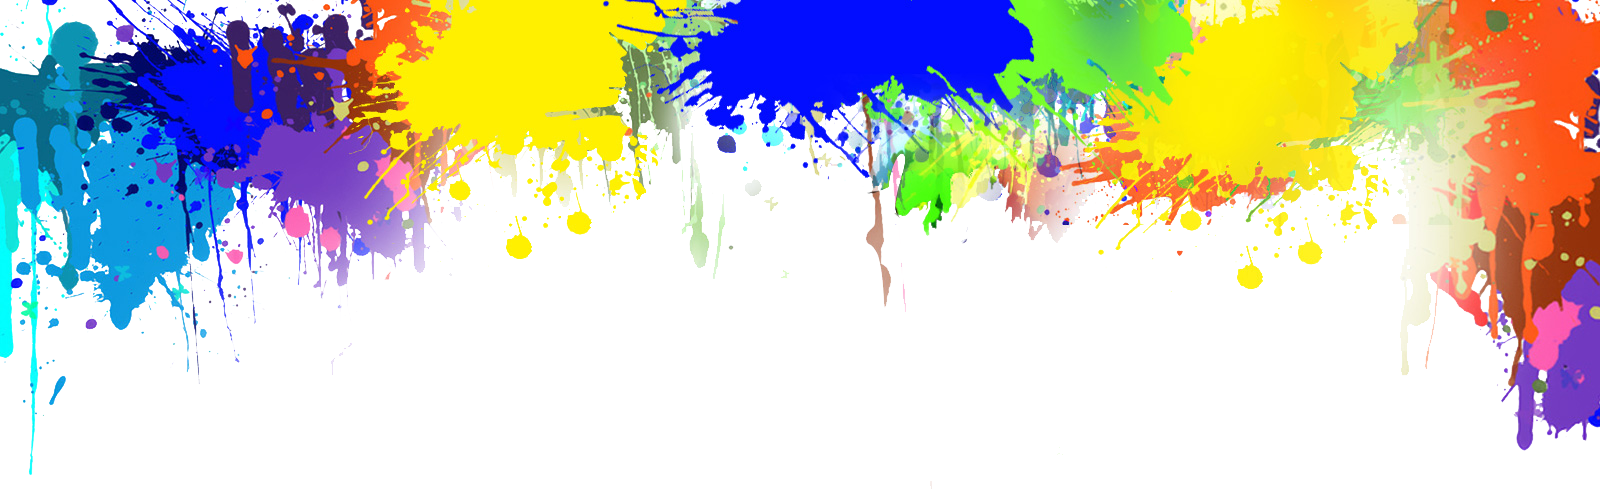
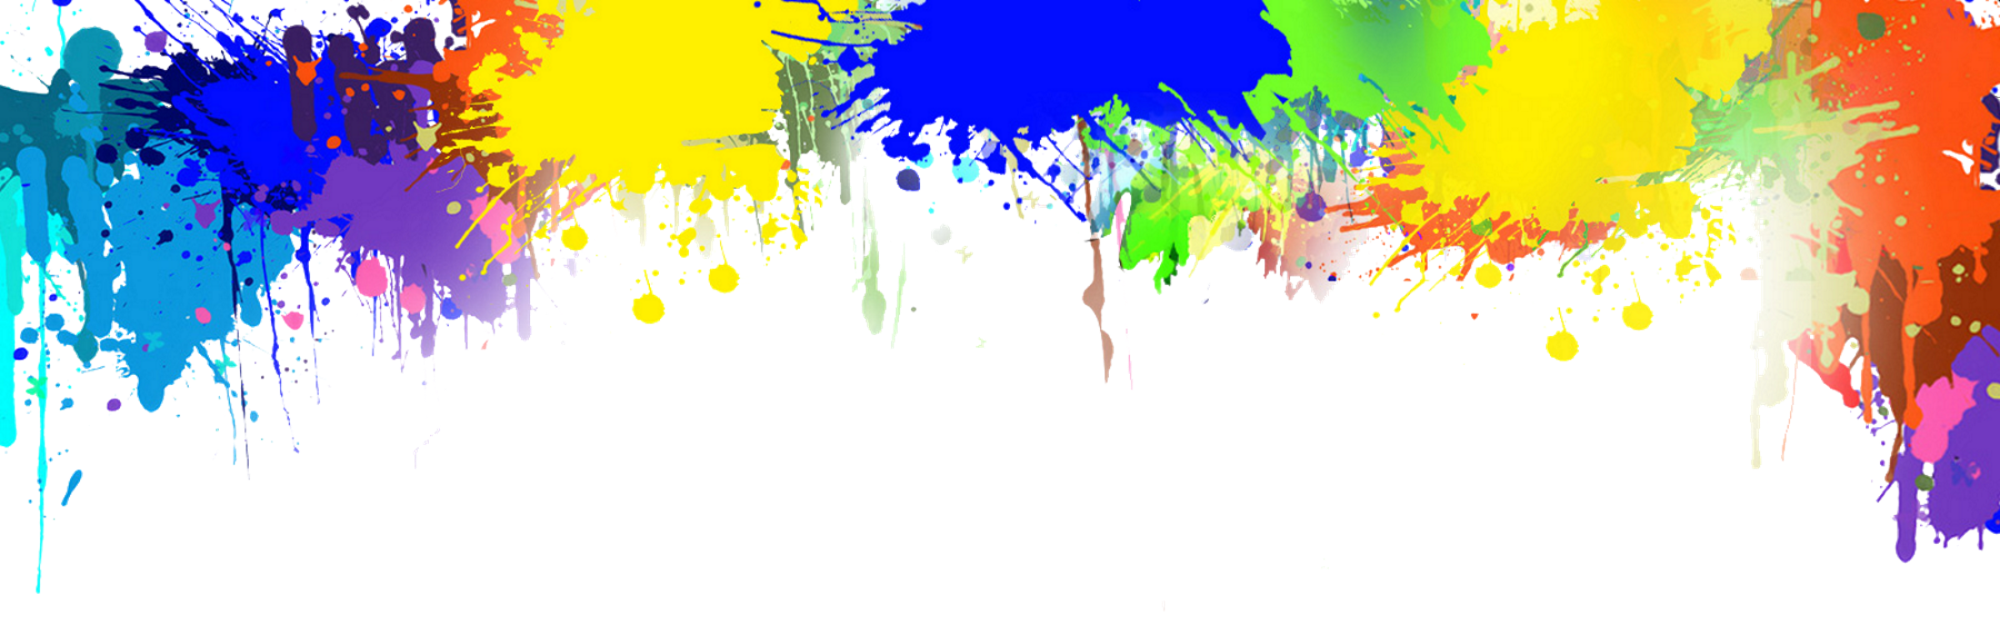
resized background picture

diff --git a/style.css b/style.css
@@ -59,10 +59,6 @@ body {
     top: 85px;
 }
 
-#sizelabel {
-    margin-top: 200px;
-}
-
 .tools_words {
     position: absolute;
     left: 10px;
